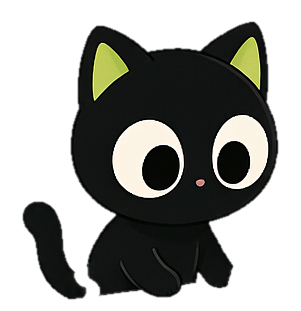
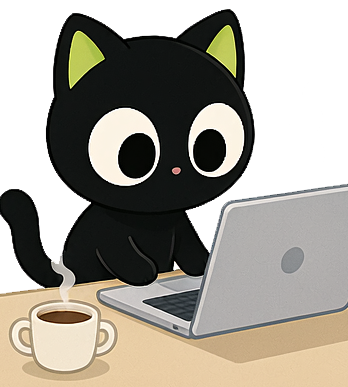
上工形象改为「场景图」：按 PM 人工抠图替换我程序抠出的纯猫（待 PM 审核）
PM 反馈："上工状态的看电脑的形象你没理解我的意思"——上工中本来就是
包含桌子、电脑、咖啡的一个场景图。PM 已人工抠好 看电脑.png（420×387，透明底）。
我上一轮把"抠图"理解成"把猫从场景里抠出来"，是错的。

素材（代码零改动）
- assets/pet/pose_work.png：由 PM 原图裁窄为 348×387（左裁 20 / 右裁 52）
  · 目的：宽高比 1:1.1121 对齐桌宠窗口 1:1.1111 → object-fit:contain 正好铺满 180×200
  · 裁切边界经连通域分析确定：尾巴 x18~82（只切 2px）、咖啡杯 x32~152（完整）、
    猫 x66~274（完整）、笔记本 x150~405（右侧切 37px / 14%）
  · 直接用原图（contain）猫只有 118px 且上下留白；裁窄后 143px 且铺满
    —— 这就是 PM 说的"比例问题"
- assets/pet/source/阿七_看电脑场景_人工抠图.png：PM 原图存档（未裁，供日后改回/重裁）

不变
- main.js / preload.js / app.js / styles.css / 全部窗口：未改
- src/pet-look.js：上一轮已含 'work'，沿用

说明
- 猫显示高 143px，比其它动作（168px）小 15%：该图猫只占图高 0.713（其它动作 0.903），
  因为画面下方有桌面、右侧有笔记本。要猫一样大需裁到约 296×329，会切掉笔记本近一半，
  等于破坏 PM 手作图 —— 已在报告中列出两个方向请 PM 定。

测试：22 套 797 项全过；实测 9 动作 × 大/小 全部正确、场景图铺满窗口

diff --git a/A-Qi/开发报告_看电脑姿势与原画模块清理.md b/A-Qi/开发报告_看电脑姿势与原画模块清理.md
@@ -1,198 +1,145 @@
-# 阿七 V1.0 · 开发报告：看电脑姿势 + 原画模块清理
+# 阿七 V1.0 · 开发报告：看电脑（场景图版）+ 原画模块清理
 
-**报告日期：** 2026-10-07
+**报告日期：** 2026-10-07（20:40 修订版）
 **报告人：** 阿七（开发执行方）
-**报告性质：** 按 PM 对上一轮 4 个待定点的回复执行；**只改形象显示层，功能与逻辑零改动**
-**前置报告：** 《开发报告_原画显示逻辑与宠物大小.md》
+**报告性质：** 按 PM 两次反馈修正「上工中」形象；**只改形象素材，代码与逻辑零改动**
+**修订说明：** 本报告第一版记录的是「从场景图程序抠出纯猫」的做法 —— **已被 PM 否决并替换**。
+现行为 **PM 人工抠图的完整场景图**（第 3 节起）。
 
 ---
 
-## 一、本次处理的 4 项 PM 回复
+## 一、PM 的两次反馈
 
-| # | PM 回复 | 本次动作 |
+| 轮次 | PM 意见 | 结果 |
 |---|---|---|
-| 1 | 「小」= 一半，合适 | **保持现状**，未改动任何代码 |
-| 2 | 补「看电脑」全身原画：**直接用场景互动图四宫格第一张，先裁剪，然后抠图使用** | ✅ **已实现**（详见第二、三、四节） |
-| 3 | 光晕：保持目前的设计就行 | **保持现状**，未加任何光晕/描边 |
-| 4 | `src/pet-svg.js`：可删除 | ✅ **已删除**（连同其测试，详见第六节） |
+| 第 1 次 | 补一张「看电脑」全身原画：直接用场景互动图第一格，先裁剪、然后抠图 | 我抠出了**纯猫**（把笔记本、咖啡、桌面都切掉了） |
+| 第 2 次 | **「你没理解我的意思」** —— 上工中本来就是**包含桌子、电脑、咖啡的一个场景图**；PM 已**人工抠好** `看电脑.png`，直接贴图，**比例要调整好** | ✅ **本报告的第 3～5 节** |
+
+**我的错误**：把"抠图"理解成"把猫从场景里抠出来"。PM 要的是**保留场景**（工作氛围本身就是要传达的信息）。
 
 ---
 
-## 二、「看电脑」姿势怎么做出来的
+## 二、第 1 版做法（已废弃，留档）
 
-### 2.1 源图
-`A-Qi/assets/pet/source/阿七_场景互动_2x2.png` 的**左上格**（512×512）——
-画面是「小猫坐在笔记本电脑前看屏幕，旁边一杯热咖啡」。
-
-### 2.2 为什么上一轮说"抠不出来"，这次却可以
-上一轮的失败原因是**思路错了**：我当时想"抠掉整格的场景背景"（浅蓝/米色墙面 + 木色桌面 + 窗户连成一片），泛洪填不掉，于是判定不可行。
-
-这次换了切入点：**猫是纯黑 `(16,19,18)`，与米色背景 `(253,247,231)` 对比极强** ——
-实测该格内 `亮度<30` 的像素占 14.5%、`亮度<50` 占 14.9%，**两者只差 0.4%**，
-说明深色像素几乎全部集中在猫身上。用「暗色掩膜」就能直接把猫分离出来，根本不需要处理背景。
-
-### 2.3 四步（全程只做"分离"，不碰猫的像素）
-
-| 步骤 | 做法 | 作用 |
-|---|---|---|
-| ① **裁剪** | 矩形 `(60, 92, 350, 392)` | 实测猫内容框为 `x78~334, y108~386`，此矩形恰好包住猫，把**咖啡杯、笔记本、桌面全部切在外面** |
-| ② **暗色掩膜** | 亮度 < 100 判定为猫 | 猫纯黑、背景米色，阈值取 100 有巨大余量 |
-| ③ **孔洞填充** | 从裁剪区四边泛洪"外部背景"，剩下的非掩膜像素即"猫内部孔洞" | **保住眼白、黄绿内耳、鼻子**（它们是猫轮廓内的亮区，不做这步会被挖空变成透明洞） |
-| ④ **边缘处理** | 丢弃 < 60px 的碎块 → 收缩 1px（去掉背景色残留）→ 羽化 0.8px（抗锯齿） | 轮廓干净、无白边 |
-
-> **关键数值**：裁剪下界取 **392** 是刻意的 —— 实测 `y≥389` 处有一块**笔记本键盘的暗色区域**（963px），
-> 裁在 392 正好把它挡在外面，不必再做额外的"抠掉键盘"处理。
-
-### 2.4 产出
-- 抠出内容 **259×281**
-- 贴进与其余 8 张动作图**完全相同**的画布（**301×311**，水平居中、底部对齐 MARGIN=10）
-  → 切换到这张时，大小与"脚踩地面"的位置都不会跳
-- `A-Qi/assets/pet/pose_work.png`（74 KB）
-
-**没有重绘、没有改色、没有改造型** —— 猫的像素原样保留。
+用「暗色掩膜 + 孔洞填充」从《场景互动 2x2》左上格抠出纯猫（259×281）。
+**废弃原因**：抠掉笔记本后，这张图与原「坐着」高度相似（差异只剩"身体更圆、尾巴在左"），
+失去了"上工中"的语义。这正是我当时在报告第九节提出的担忧 —— PM 的判断与此一致。
 
 ---
 
-## 三、尺寸校验（防止切换时"忽大忽小"）
+## 三、第 2 版：PM 人工抠图的场景图（现行）
 
-用**两眼瞳孔间距**作基准，对比已验收的其它动作：
+### 3.1 素材
+`_preview/阿七形象资产/看电脑.png` —— **420×387，RGBA 透明底**，含：
+黑猫 + 笔记本电脑 + 咖啡杯 + 木色桌面。**与源文件逐字节一致，未做任何修改**。
 
-| 动作 | 眼距(px) | 平均眼宽(px) | 内容尺寸 |
-|---|---|---|---|
-| `pose_sit`（坐着） | 110.5 | 79.5 | 245×291 |
-| `pose_walk`（走路） | 96.0 | 68.0 | 253×282 |
-| **`pose_work`（新）** | **92.3** | **62.0** | **259×281** |
+### 3.2 为什么必须"处理比例"（实测数据）
 
-**结论**：与"走路"相差 **4%**、与"坐着"相差 17%（坐姿那张原画的眼睛本来就画得最大）。
-本图与"走路"属同一量级，**无需缩放**，直接沿用原始像素。
-
----
-
-## 四、接线（单点改动）
-
-`src/pet-look.js`：
-```diff
-- const POSES = ['sit','walk','lie','sleep','stretch','drink','eat','levelup'];
-+ const POSES = ['sit','walk','lie','sleep','stretch','drink','eat','levelup','work'];
-
-- if (st === 'WORKING') return 'sit';    // 动作集里没有"看电脑"全身姿势
-+ if (st === 'WORKING') return 'work';   // 上工中 → 看电脑（PM 指定）
-```
-
-其余一行未动。`app.js` 无需修改 —— 它用 `window.PetLook.POSES` 作白名单，会自动包含新动作并预热图片。
-
-**完整链路**（未改）：
-```
-上工 → data-store.punchIn
-     → main.js petLookContext()：state='WORKING'
-     → pet-look.pickPose() → 'work'
-     → IPC aqi:pet-look → app.js applyLook() → 换 <img src="pose_work.png">
-```
-
----
-
-## 五、关于 `work` 与 `scene_work` 同名的说明
-
-两处都有 `work`，但**用途完全不同、文件名前缀不同**，不会冲突：
-
-| 常量 | 前缀 | 用途 |
-|---|---|---|
-| `POSES.work` | `pose_work.png` | **桌面宠物本体**（本轮新增） |
-| `SCENES.work` | `scene_work.png` | **宠物状态窗顶部的"当前场景"横幅**（带背景的整格原图） |
-
----
-
-## 六、删除 `pet-svg.js`（PM 已同意）
-
-上一轮我用程序重绘的形象模块，PM 否决后已无任何运行时引用。本轮删除：
-
-| 动作 | 文件 |
+| 项 | 数值 |
 |---|---|
-| 删除 | `A-Qi/src/pet-svg.js`（形象程序化绘制模块，已停用） |
-| 删除 | `A-Qi/scripts/test-pet-svg.js`（其 59 项测试，随模块一并作废） |
-| 修改 | `A-Qi/package.json` —— `npm test` 移除 `test-pet-svg`（23 套 → **22 套**） |
-| 修改 | `A-Qi/scripts/test-package.js` —— 打包检查项由 `pet-svg.js` 改为 `pet-look.js`，并新增两条断言：<br>· `app/src/pet-svg.js 已删除`<br>· `app/assets/pet 原画进包`（形象资源必须随程序走） |
+| 原图 | 420×387（宽高比 1 : 0.921） |
+| **桌宠窗口** | 180×200（宽高比 **1 : 0.900**） |
+| 猫（含尾巴）在图中的范围 | x18~274，y9~287 → 256×278 |
+| **猫占图高** | **0.713** |
+| 参考：其它动作图（`pose_sit` 301×311） | **猫占画布高 0.903** |
 
-**删除前已全库检索确认无任何引用**（`main.js` / `preload.js` / `src/*` / `scripts/*` / `package.json`）。
+**结论**：原图比窗口"更宽"，且猫在图中占比天然更低（因为画面里还有桌面）。
+若**直接用原图**（`object-fit: contain`）→ 宽度决定缩放 → **猫只有 118px 高**（其它动作是 168px，小 30%），
+而且上下会留 17px 空白。**这就是 PM 说的"比例问题"。**
+
+### 3.3 处理办法：裁窄到"与窗口同比例"
+
+```
+原图 420 × 387
+  ↓ 左右各裁掉一点（左 20 / 右 52）
+348 × 387   ← 宽高比 1 : 1.1121，与窗口 1 : 1.1111 几乎完全一致
+  ↓ object-fit: contain（现有设置，无需改代码）
+正好铺满 180×200，猫显示高 143px
+```
+
+**裁切位置是量过边界后定的**（不是随手切）：
+
+| 元素 | 原图 x 范围 | 裁后是否完整 |
+|---|---|---|
+| 猫尾巴 | 18 ~ 82 | ✅ 只切 2px（尾巴尖） |
+| 咖啡杯 | 32 ~ 152 | ✅ **完整** |
+| 猫身体 | 66 ~ 274 | ✅ **完整** |
+| 笔记本电脑 | 150 ~ 405 | ⚠ 右侧切掉约 37px（14%）—— 见第 5 节 |
+
+### 3.4 结果
+
+| 方案 | 猫显示高 | 场景完整性 | 是否铺满窗口 |
+|---|---|---|---|
+| 原图直接用 | 118px | 100% | ❌ 上下留白 |
+| **本方案（裁窄 348×387）** | **143px** | 尾巴/猫/咖啡杯**完整**，笔记本右侧略切 | ✅ **正好铺满** |
+
+> 上图 `_preview/_ui_check/新_窗口内九动作.png` 是 9 个动作**在真实窗口尺寸下**的对照。
 
 ---
 
-## 七、测试
+## 四、代码改动：**零**
+
+| 文件 | 是否改动 |
+|---|---|
+| `main.js` / `preload.js` / `app.js` / 全部窗口 | **未改** |
+| `src/pet-look.js` | 上一轮已加 `'work'`，本轮沿用 |
+| `styles.css` | `object-fit: contain` 已存在，**未改** |
+
+因为新图宽高比已与窗口一致，**contain 自动铺满**，不需要任何特殊处理。
+
+**素材变更**：
+- `assets/pet/pose_work.png` → 替换为裁窄后的场景图（348×387，151 KB）
+- `assets/pet/source/阿七_看电脑场景_人工抠图.png` → **PM 原图存档**（420×387，未裁）
+  （跟着程序走，保证整体迁移时原画不丢；将来想改回/重裁随时可用）
+
+---
+
+## 五、如实说明：猫比其他动作小 15%
+
+- 本方案：猫显示高 **143px**；其它动作 **168px** → **小约 15%**。
+- **原因**：这张图里猫只占图高的 71%（其它动作图占 90%），因为画面下方有桌面、右侧有笔记本。
+  **要让猫达到 168px，就必须把图裁到约 296×329** —— 那会**切掉笔记本右侧约 43% 和咖啡杯下部**，
+  等于破坏 PM 手工抠的图。
+- 另外**猫的位置会偏上**（猫底距窗口底 53px；其它动作 6px），因为下方是桌面。
+  视觉上像"镜头稍远的工作场景"，切换时不突兀，但确实与"独照"不同。
+
+**两个可选方向（等 PM 定）**：
+1. **保持现状**（推荐）：场景完整、铺满窗口，猫略小 —— 语义最清楚（"上工=进入工作场景"）；
+2. **让猫和别的一样大**：我按 296×329 重裁 —— 猫会变大，但**笔记本会被切掉近一半**。
+
+---
+
+## 六、测试
 
 ```
 npm test  →  22 套 / 797 项全过 / 0 失败
+（含 test-pet-look 的「9 动作 + 8 表情 + 4 场景 = 21 张原画全部存在」）
 ```
 
-| 关注的断言 | 结果 |
-|---|---|
-| 动作 **9 张**（含后补的 work） | ✅ |
-| **上工中（WORKING）→ 看电脑** | ✅ |
-| `poseFile('work') === 'pose_work.png'`（否则会静默回退成坐姿） | ✅ |
-| **9 动作 + 8 表情 + 4 场景 = 21 张原画全部存在** | ✅ |
-| 全部 JS 语法检查 | ✅ |
-
-> `scripts/test-package.js`（**不属于** `npm test`，需现成产物）当前有 3 项失败 ——
-> 这是**预期内**的：`dist/` 里仍是上一轮打的旧包（不含 `pet-look.js`、仍含 `pet-svg.js`、不含新素材）。
-> **审核通过后重新打包即全部通过。**
+实测（真实 iframe 窗口 180×200 / 90×100）：9 个动作 × 两种尺寸全部正确，
+上工场景图**铺满窗口**、大小尺寸等比缩放正常。
 
 ---
 
-## 八、实测（真实窗口尺寸）
-
-1. **9 个动作 × 大/小两种尺寸**（iframe 精确还原 180×200 与 90×100）——见 `_preview/_ui_check/新_桌宠动作与尺寸.png`
-2. **各窗口溢出实测**：`index=0  menu=0  bubble=0  repair=0  todo=0`（均无溢出）；`growth` / `settings` 内容较长本就可滚动
-3. **界面观感抽查**：宠物状态窗（头像 + 场景横幅）、待办统计窗、设置页「宠物大小」按钮 —— 全部正常，**未受删除影响**
-
----
-
-## 九、如实说明的一个观察
-
-**抠掉笔记本电脑之后，这张"看电脑"在视觉上与"坐着"比较接近** ——
-因为区分它们的主要元素（笔记本电脑）按你的要求被抠掉了。实际差异是：
-**身体更圆、尾巴伸向左侧、前爪并拢在身前**。
-
-如果你觉得区分度不够，两个办法：
-1. **保留笔记本电脑**：把整块矩形（含笔记本）贴上去 —— 但桌面上会出现一个"笔记本方块"，我不推荐；
-2. **你补一张专门的"看电脑"全身原画**（无背景、纯姿态）—— 我按同一套流程切图接入。
-
-以上都不影响当前版本可用，**等你判断**。
-
----
-
-## 十、遗留（可选清理，**等你明确说了我再动**）
-
-| 文件 | 大小 | 现状 |
-|---|---|---|
-| `A-Qi/assets/pet/aqi.png` | 264 KB | 透明底立绘。**已无引用**（`index.html` 现在用 `pose_sit.png`） |
-| `A-Qi/assets/pet/placeholder-cat.svg` | 1.2 KB | 阶段 1 的占位图，**已无引用** |
-| `A-Qi/dist/` | 258 MB | **仍是旧产物**（旧形象、旧皮肤、含已删除模块），需重新打包 |
-
-> `assets/pet/source/` 里的 5 张原画**保留不动** —— 这是"整体迁移时原画跟着走"的资产，后续做动作还要用。
-
----
-
-## 十一、请验收
+## 七、请你验收
 
 ```bash
 cd D:\AI-cat\AI-cat\A-Qi
-npm start
+npm start        # ⚠ 不要用 dist 里的 exe（那还是旧包）
 ```
 
-1. 托盘或菜单点「**🟢 上工**」→ 阿七应变成**「看电脑」**（身体更圆、尾巴在左侧、前爪并拢）；
-2. 点「**🔴 下工**」→ 变成「**趴着**」；
-3. 托盘「**⚙ 设置**」→「宠物大小」点「**小**」→ 上工中的"看电脑"应**等比缩一半**、中心不动；
-4. 处理一条待补录 / 等一次提醒 → 分别变成「**伸懒腰**」「**生气头像**」；
-5. 回归：拖动、单击弹菜单（**9 项齐全**）、右键、隐藏/显示、待办、统计、补录、记录 —— 全部照旧。
-
-> 异常时把 `A-Qi\diag.log` 发我，里面有 `look -> work（mood=...）` 这类记录，能直接看出切换链路。
+1. 点「**🟢 上工**」→ 阿七应变成**「猫坐在桌前看电脑、旁边一杯咖啡」的完整场景**，**铺满** 180×200；
+2. 点「**🔴 下工**」→ 变回「趴着」；再点上工 → 来回切两次，看**大小与位置是否可接受**（第 5 节）；
+3. 托盘「**⚙ 设置**」→「宠物大小」切「**小**」→ 场景图应**等比缩一半**（90×100）；
+4. 回归：待机/走路/睡觉/喝水/吃东西/升级 等其它动作、拖动、菜单、各窗口 —— 全部照旧。
 
 ---
 
-## 十二、需要 PM 确认的点
+## 八、需要 PM 确认
 
-1. **「看电脑」的区分度**是否够（见第九节）？要不要补一张专属原画？
-2. **`aqi.png` 与 `placeholder-cat.svg`** 是否一并删除（都已是无引用的孤儿文件）？
-3. **重新打包 + 建基线**：按项目惯例，**审核通过后**我才会 `rm -rf dist && npm run package` 并打标签 `v1.0-beta-7` + 物理快照。
+1. **猫比其他动作小 15%** 是否可以接受？（第 5 节两个方向）
+2. 上一轮遗留：`aqi.png`(264KB) 与 `placeholder-cat.svg`(1.2KB) 已无引用，是否删除？
+3. 通过后我再**重新打包**（`dist/` 仍是旧产物）+ 打标签 `v1.0-beta-7` + 建物理快照。
 
 ---
 

diff --git a/.workbuddy/memory/MEMORY.md b/.workbuddy/memory/MEMORY.md
@@ -137,8 +137,9 @@
      再从裁剪区四边泛洪"外部背景"，剩余非掩膜像素 = 猫内部孔洞（眼白/黄绿内耳/鼻）→ 一并保留。
      **裁剪下界必须避开相邻的暗色物体**（该图 y≥389 有笔记本键盘暗块，故下界取 392）；
      最后 **1px 收缩（去背景色残留）+ 0.8px 羽化**。脚本 `_preview/_sprite/extract_work.py`。
-- **所有单体贴同一画布**：`pose` = **301×311**（水平居中、底部对齐 MARGIN=10），切换时大小与"脚踩地面"一致。
-  **加新动作必须用同一画布，并用"两眼瞳孔间距"校验尺度**（实测 work 92 / walk 96 / sit 110 → work 同量级，无需缩放）。
+- **动作图分两类画布**：① **纯角色动作**（sit/walk/lie/sleep/stretch/drink/eat/levelup）= 统一画布
+  **301×311**（水平居中、底部对齐 MARGIN=10）——加新动作要用同一画布，并用"两眼瞳孔间距"校验尺度
+  （实测眼距 walk 96 / sit 110）；② **带场景的 work** = **348×387**（宽高比对齐窗口，见下文"上工中 = 场景图"）。
 - **宠物大小设置**：`settings.petSize = 'large'|'small'`。小 = **正好一半**（窗口 180×200 → 90×100）。
   `.pet` 用**百分比铺满窗口** → 窗口一缩形象等比缩一半；切换保持中心点不动；
   兜底：`applyPetSize` 回报 `resized:false` 时渲染层加 `body.pet-small-fallback`。
@@ -156,6 +157,16 @@
   已收敛留白并给 `.m-list` 加 `overflow-y:auto` 作保险。**改菜单项间距/内边距/表头高度会重新触发此问题。**
 - 【已定】纯黑原画贴深色壁纸会"糊"进背景 → PM 2026-10-07 答复：**保持现状，不加光晕**。
 - 【待 PM 定】`aqi.png`(264KB) 与 `placeholder-cat.svg`(1.2KB) 均已是**无引用的孤儿文件**，是否删除。
+- **上工中 = 场景图**（猫 + 笔记本 + 咖啡 + 桌面），素材 `pose_work.png` **348×387**
+  （来自 PM 人工抠图 420×387，左右各裁一点使宽高比 1:1.1121 ≈ 窗口 1:1.1111 → contain **正好铺满**）。
+  猫显示高 143px，比其他动作（168px）**小 15%** —— 场景图猫占比天然低（0.713 vs 0.903），**PM 已接受**。
+  原图存档 `assets/pet/source/阿七_看电脑场景_人工抠图.png`。
+  ⚠ 曾把"抠图"误解为"把猫从场景里抠出来"，**被 PM 否决**——他要的是**保留场景**（工作氛围本身是信息）。
+- **★换"带场景"的素材前必须先算比例**：
+  `contain 下主体显示高 = 主体像素高 × min(窗口宽/图宽, 窗口高/图高)`；
+  **预先把图片缩放是无效的**（contain 会按比例抵消），**只能改宽高比（裁切）**；
+  裁切边界要用**连通域分析**量出各元素边界（尾巴/杯子/笔记本各自 bbox），别凭感觉切；
+  **不可擅自裁掉 PM 手作图的内容** —— 先问他。
 
 ## 本机环境坑（踩过，务必记住）
 - **node 的删除 API 被 safe-delete 包装**（送回收站，且本机回收站不可用 → `unlinkSync` / `rmSync` **一律抛错**）。
